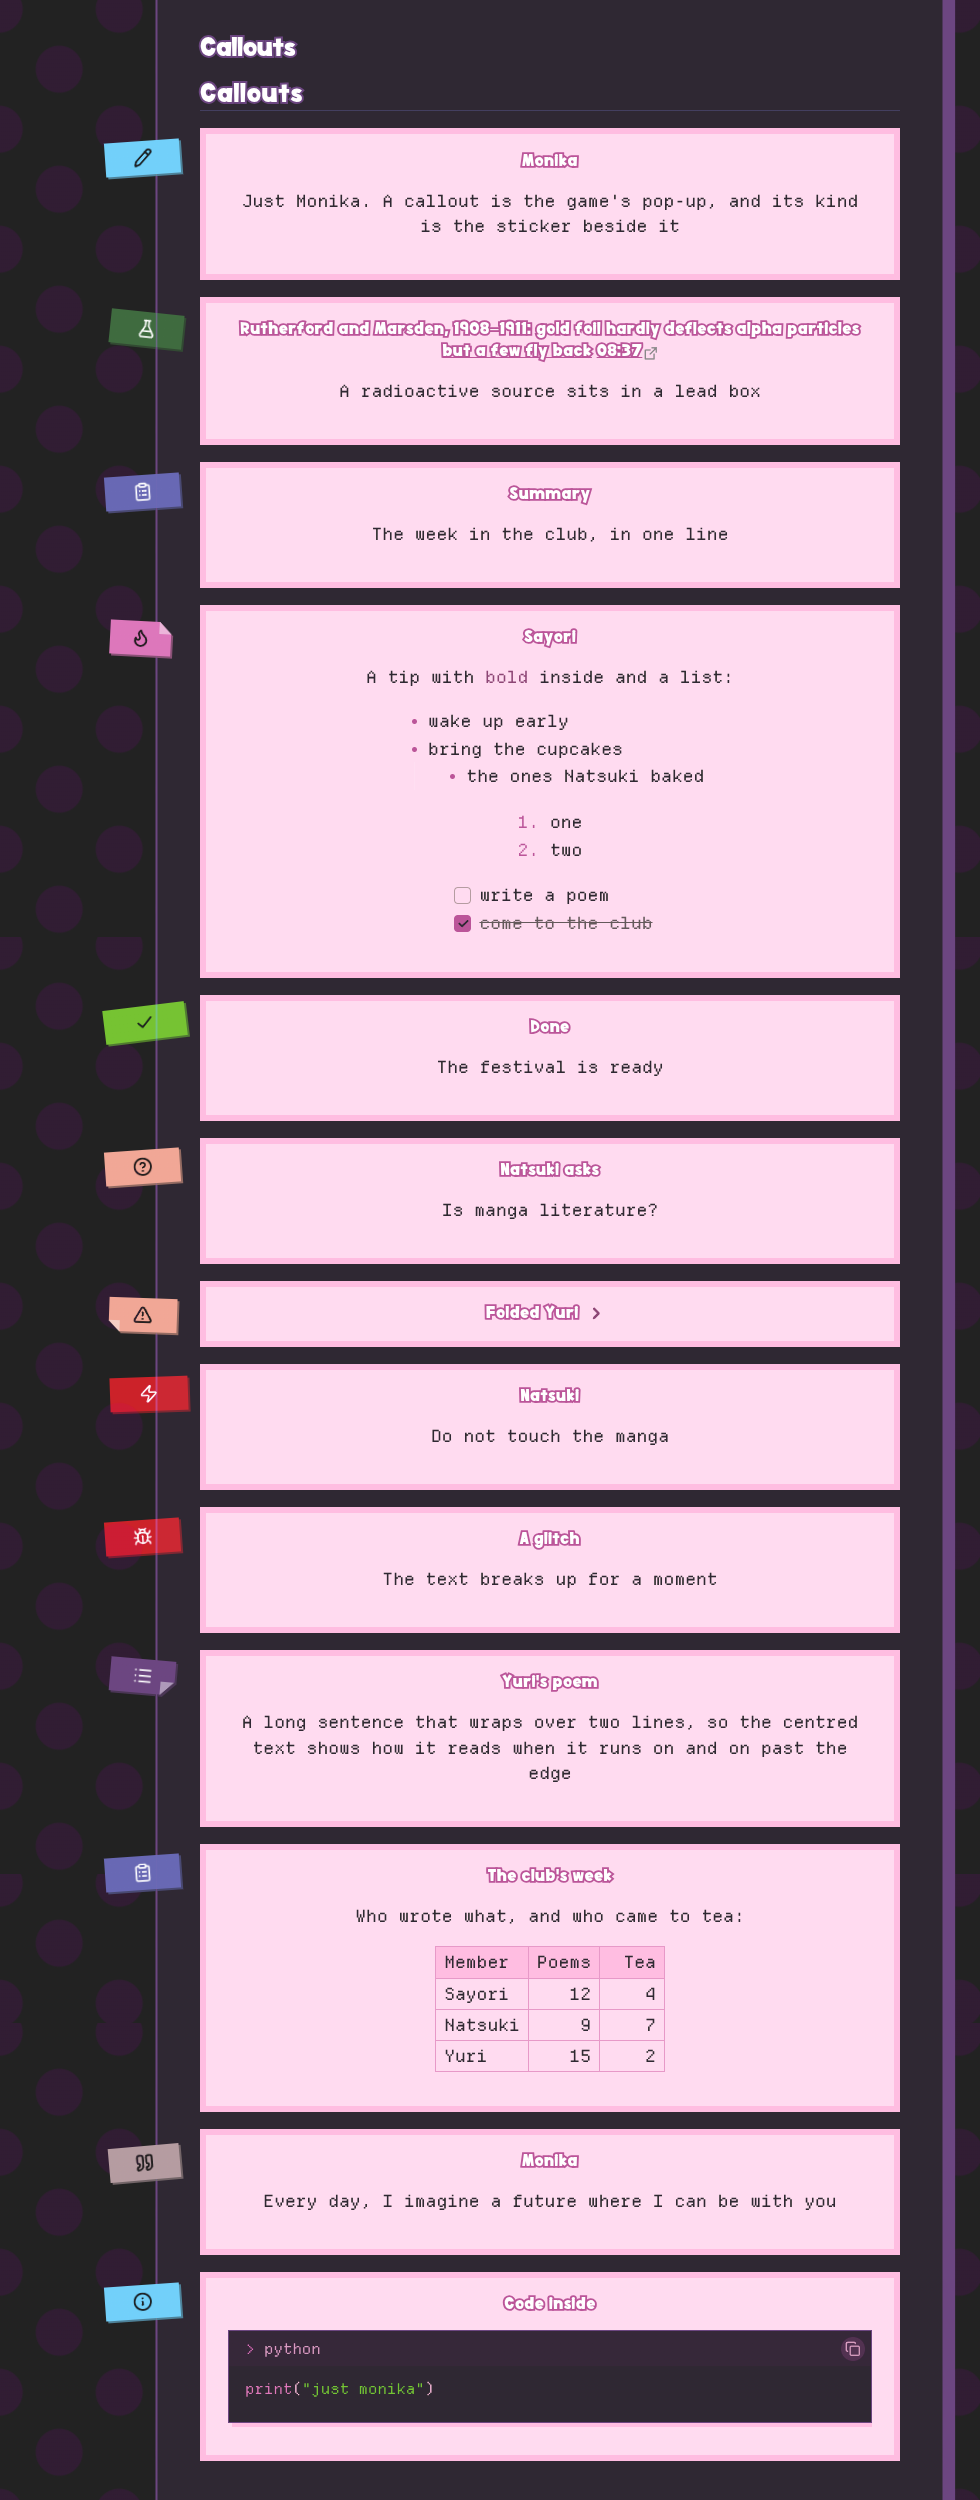
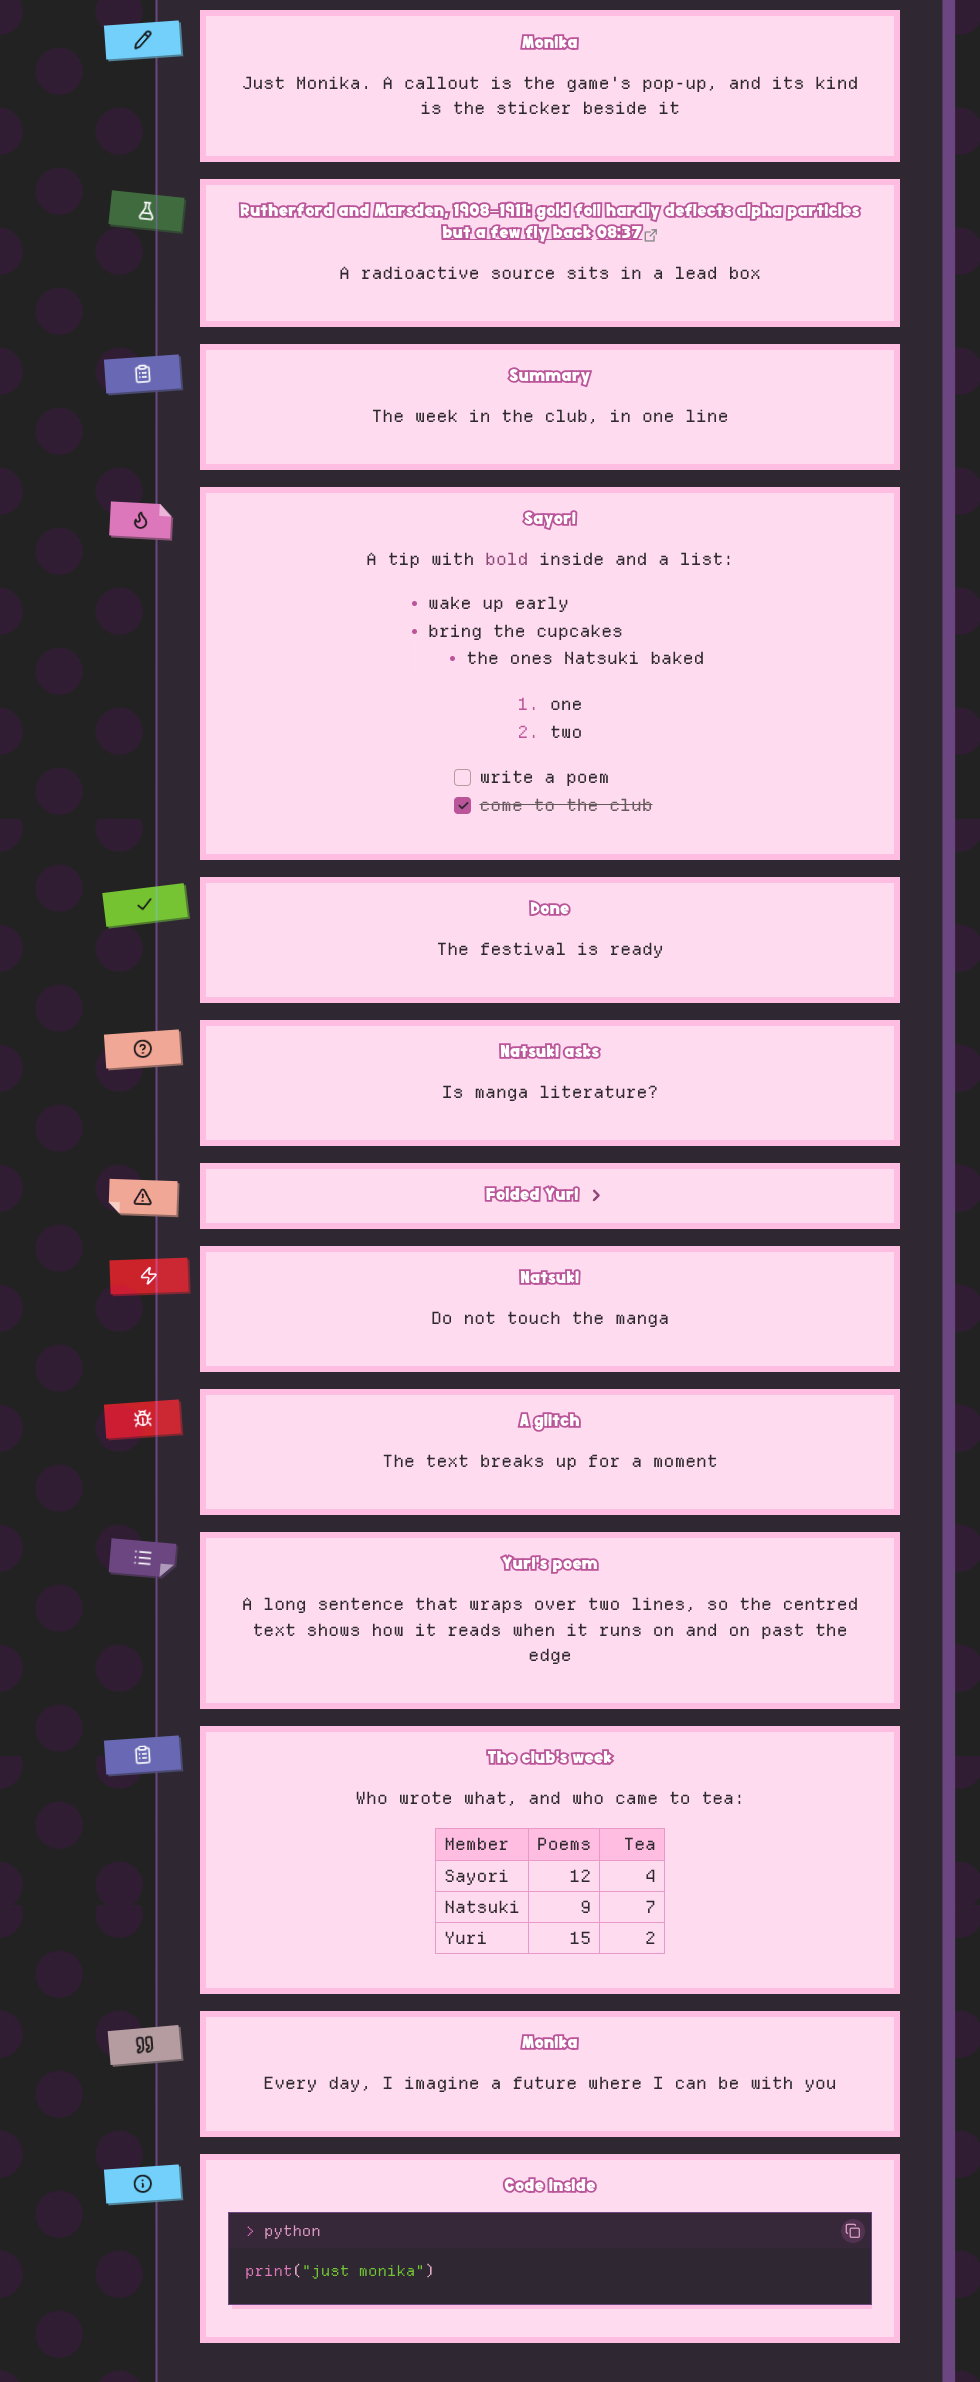
Show the girls on their way, and trim the callouts' column
The empty tab gets a second shot beside the first, with the girls
walked apart, facing different ways, and Sayori in a hop. The column of
callouts starts at the first callout, without the note's double title.

Assisted-by: Claude Code:claude-opus-5-5 (mostly)

Changed region(s): [[0.0918, 0.0, 0.9184, 0.9941]]

diff --git a/README.md b/README.md
@@ -52,7 +52,8 @@ Download `theme.css` and `manifest.json` from the [latest release](https://githu
 
 ## The club on an empty tab
 
-![Sayori, Monika, Natsuki and Yuri walking along the foot of an empty tab](docs/dokis.png)
+| ![Sayori, Monika, Natsuki and Yuri standing at the foot of an empty tab](docs/dokis.png) | ![the four girls walking apart, facing different ways, with Sayori in the middle of a hop](docs/dokis-walk.png) |
+| ---------------------------------------------------------------------------------------- | ------------------------------------------------------------------------------------------------------------- |
 
 An optional snippet puts the four girls at the foot of every empty tab, as on the [ddlc-sddm-theme](https://github.com/rokokol/ddlc-sddm-theme) login screen. They walk to and fro, hop now and then, and hop when the cursor touches them
 
